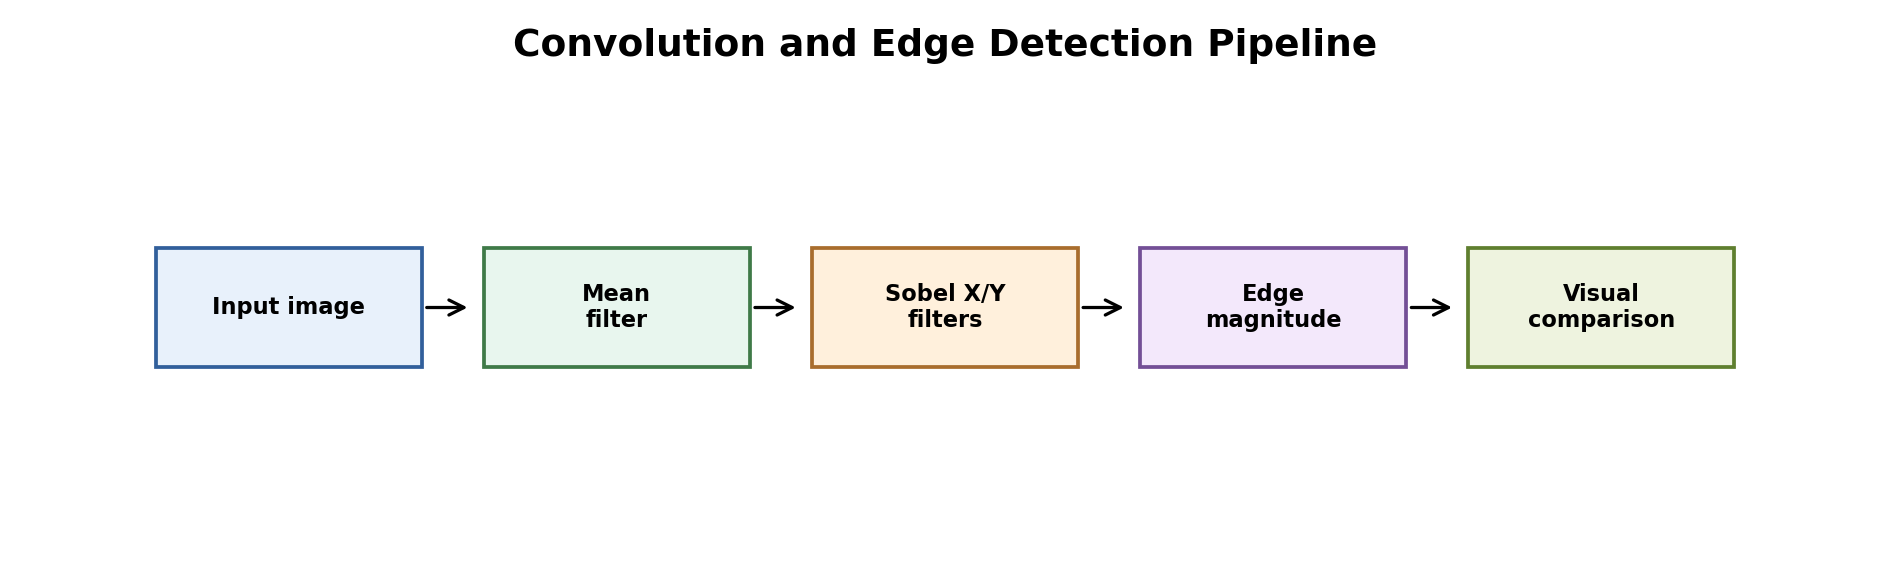
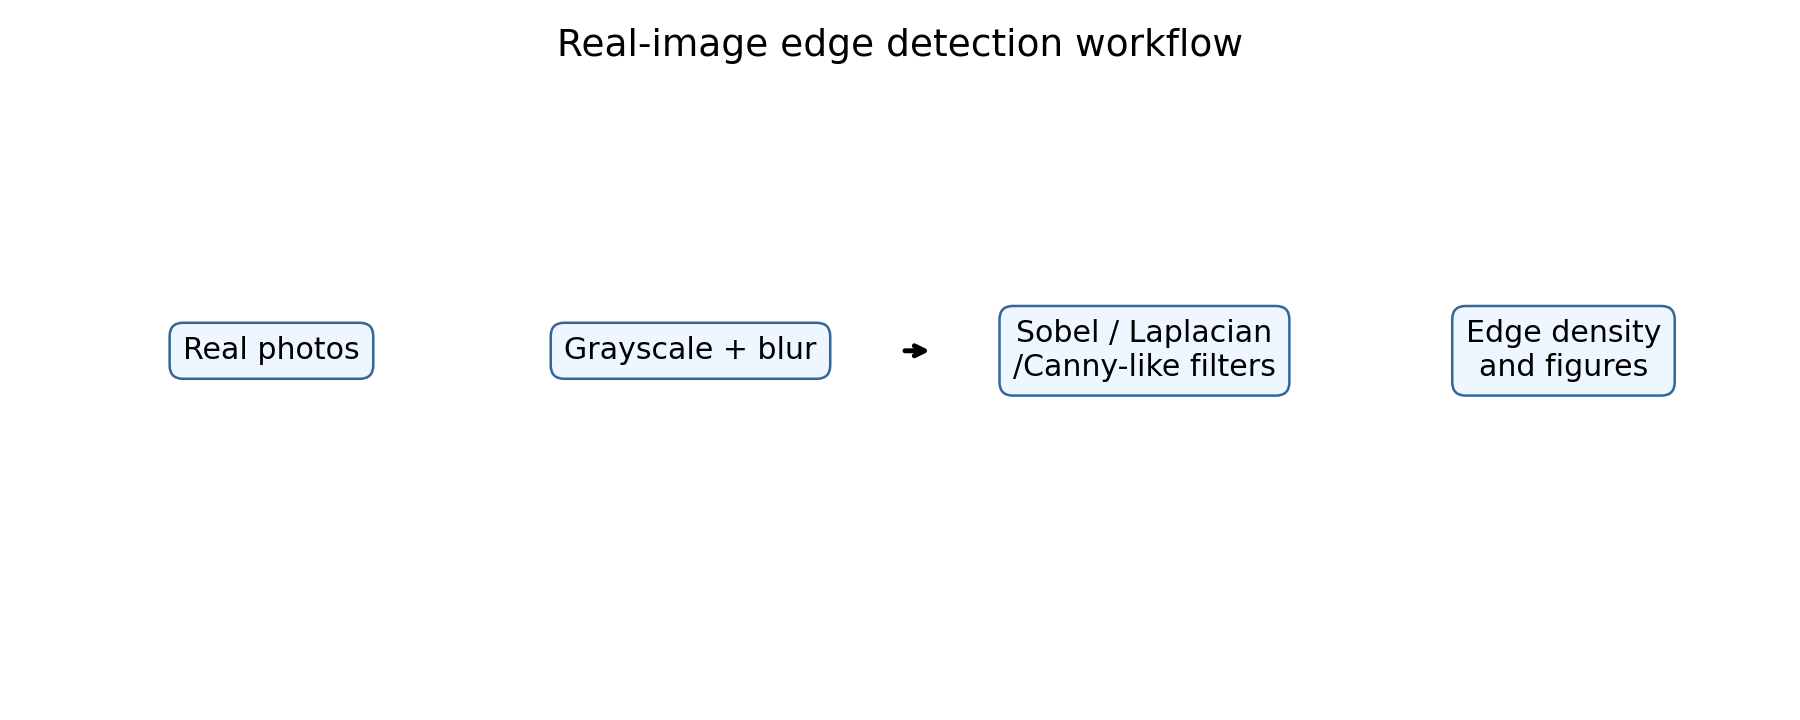
Use real images for edge detection

diff --git a/1_real_image_edge_detection.py b/1_real_image_edge_detection.py
@@ -1,0 +1,195 @@
+from pathlib import Path
+
+import matplotlib
+
+matplotlib.use("Agg")
+import matplotlib.pyplot as plt
+import numpy as np
+import pandas as pd
+from sklearn.datasets import load_sample_images
+
+
+ROOT = Path(__file__).resolve().parent
+RESULTS = ROOT / "results"
+ASSETS = ROOT / "assets"
+
+
+def rgb_to_gray(image: np.ndarray) -> np.ndarray:
+    image = image.astype(np.float32) / 255.0
+    return 0.299 * image[:, :, 0] + 0.587 * image[:, :, 1] + 0.114 * image[:, :, 2]
+
+
+def conv2d(image: np.ndarray, kernel: np.ndarray) -> np.ndarray:
+    kh, kw = kernel.shape
+    pad_h, pad_w = kh // 2, kw // 2
+    padded = np.pad(image, ((pad_h, pad_h), (pad_w, pad_w)), mode="reflect")
+    output = np.zeros_like(image, dtype=np.float32)
+    for row in range(image.shape[0]):
+        for col in range(image.shape[1]):
+            output[row, col] = np.sum(padded[row : row + kh, col : col + kw] * kernel)
+    return output
+
+
+def normalize(image: np.ndarray) -> np.ndarray:
+    lo = float(image.min())
+    hi = float(image.max())
+    return (image - lo) / (hi - lo + 1e-8)
+
+
+def non_maximum_suppression(magnitude: np.ndarray, angle: np.ndarray) -> np.ndarray:
+    angle = (np.rad2deg(angle) + 180) % 180
+    out = np.zeros_like(magnitude)
+    rows, cols = magnitude.shape
+    for row in range(1, rows - 1):
+        for col in range(1, cols - 1):
+            direction = angle[row, col]
+            if (0 <= direction < 22.5) or (157.5 <= direction < 180):
+                q, r = magnitude[row, col + 1], magnitude[row, col - 1]
+            elif 22.5 <= direction < 67.5:
+                q, r = magnitude[row + 1, col - 1], magnitude[row - 1, col + 1]
+            elif 67.5 <= direction < 112.5:
+                q, r = magnitude[row + 1, col], magnitude[row - 1, col]
+            else:
+                q, r = magnitude[row - 1, col - 1], magnitude[row + 1, col + 1]
+            if magnitude[row, col] >= q and magnitude[row, col] >= r:
+                out[row, col] = magnitude[row, col]
+    return out
+
+
+def connected_hysteresis(strong: np.ndarray, weak: np.ndarray) -> np.ndarray:
+    edges = strong.copy()
+    changed = True
+    while changed:
+        changed = False
+        grown = edges.copy()
+        rows, cols = edges.shape
+        for row in range(1, rows - 1):
+            for col in range(1, cols - 1):
+                if weak[row, col] and not edges[row, col] and edges[row - 1 : row + 2, col - 1 : col + 2].any():
+                    grown[row, col] = True
+                    changed = True
+        edges = grown
+    return edges.astype(np.float32)
+
+
+def canny_like_edges(gray: np.ndarray) -> np.ndarray:
+    gaussian = np.array(
+        [
+            [1, 4, 6, 4, 1],
+            [4, 16, 24, 16, 4],
+            [6, 24, 36, 24, 6],
+            [4, 16, 24, 16, 4],
+            [1, 4, 6, 4, 1],
+        ],
+        dtype=np.float32,
+    )
+    gaussian = gaussian / gaussian.sum()
+    smoothed = conv2d(gray, gaussian)
+    sobel_x = np.array([[-1, 0, 1], [-2, 0, 2], [-1, 0, 1]], dtype=np.float32)
+    sobel_y = sobel_x.T
+    gx = conv2d(smoothed, sobel_x)
+    gy = conv2d(smoothed, sobel_y)
+    magnitude = normalize(np.sqrt(gx**2 + gy**2))
+    suppressed = non_maximum_suppression(magnitude, np.arctan2(gy, gx))
+    strong = suppressed >= np.quantile(suppressed, 0.94)
+    weak = suppressed >= np.quantile(suppressed, 0.86)
+    return connected_hysteresis(strong, weak)
+
+
+def analyze_image(name: str, image: np.ndarray) -> dict[str, float | str]:
+    gray = rgb_to_gray(image)
+    blur = np.ones((3, 3), dtype=np.float32) / 9.0
+    sobel_x = np.array([[-1, 0, 1], [-2, 0, 2], [-1, 0, 1]], dtype=np.float32)
+    sobel_y = sobel_x.T
+    laplacian_kernel = np.array([[0, 1, 0], [1, -4, 1], [0, 1, 0]], dtype=np.float32)
+
+    smoothed = conv2d(gray, blur)
+    gx = conv2d(smoothed, sobel_x)
+    gy = conv2d(smoothed, sobel_y)
+    sobel = normalize(np.sqrt(gx**2 + gy**2))
+    laplacian = normalize(np.abs(conv2d(smoothed, laplacian_kernel)))
+    canny = canny_like_edges(gray)
+
+    edge_threshold = 0.25
+    row = {
+        "image": name,
+        "height": image.shape[0],
+        "width": image.shape[1],
+        "mean_gray_intensity": round(float(gray.mean()), 4),
+        "sobel_edge_density": round(float((sobel > edge_threshold).mean()), 4),
+        "laplacian_edge_density": round(float((laplacian > edge_threshold).mean()), 4),
+        "canny_like_edge_density": round(float(canny.mean()), 4),
+        "sobel_mean_strength": round(float(sobel.mean()), 4),
+        "laplacian_mean_strength": round(float(laplacian.mean()), 4),
+    }
+
+    fig, axes = plt.subplots(1, 5, figsize=(14, 3.5))
+    panels = [
+        ("RGB image", image),
+        ("Grayscale", gray),
+        ("Sobel magnitude", sobel),
+        ("Laplacian", laplacian),
+        ("Canny-like edges", canny),
+    ]
+    for ax, (title, panel) in zip(axes, panels):
+        ax.imshow(panel if panel.ndim == 3 else panel, cmap=None if panel.ndim == 3 else "gray")
+        ax.set_title(title, fontsize=9)
+        ax.axis("off")
+    fig.suptitle(f"Classical edge detection on real image: {name}", y=1.02)
+    fig.tight_layout()
+    fig.savefig(RESULTS / f"{name}_edge_pipeline.png", dpi=180)
+    plt.close(fig)
+    return row
+
+
+def plot_summary(summary: pd.DataFrame) -> None:
+    plt.figure(figsize=(8, 4))
+    x = np.arange(len(summary))
+    width = 0.25
+    plt.bar(x - width, summary["sobel_edge_density"], width, label="Sobel")
+    plt.bar(x, summary["laplacian_edge_density"], width, label="Laplacian")
+    plt.bar(x + width, summary["canny_like_edge_density"], width, label="Canny-like")
+    plt.xticks(x, summary["image"])
+    plt.ylabel("Edge pixel share")
+    plt.title("Edge Density by Real Image and Method")
+    plt.legend()
+    plt.tight_layout()
+    plt.savefig(RESULTS / "edge_density_comparison.png", dpi=180)
+    plt.close()
+
+
+def plot_readme_overview() -> None:
+    fig, ax = plt.subplots(figsize=(10, 4))
+    ax.axis("off")
+    boxes = [
+        ("Real photos", 0.14),
+        ("Grayscale + blur", 0.38),
+        ("Sobel / Laplacian\n/Canny-like filters", 0.64),
+        ("Edge density\nand figures", 0.88),
+    ]
+    for text, xpos in boxes:
+        ax.text(xpos, 0.55, text, ha="center", va="center", fontsize=12, bbox=dict(boxstyle="round,pad=0.45", facecolor="#eef6ff", edgecolor="#336699"))
+    for start, end in zip(boxes[:-1], boxes[1:]):
+        ax.annotate("", xy=(end[1] - 0.12, 0.55), xytext=(start[1] + 0.12, 0.55), arrowprops=dict(arrowstyle="->", lw=2))
+    ax.set_title("Real-image edge detection workflow", fontsize=15)
+    fig.tight_layout()
+    fig.savefig(ASSETS / "readme_project_overview.png", dpi=180)
+    plt.close(fig)
+
+
+def main() -> None:
+    RESULTS.mkdir(exist_ok=True)
+    ASSETS.mkdir(exist_ok=True)
+    dataset = load_sample_images()
+    rows = []
+    for name, image in zip(dataset.filenames, dataset.images):
+        rows.append(analyze_image(Path(name).stem, image))
+    summary = pd.DataFrame(rows)
+    summary.to_csv(RESULTS / "real_image_edge_summary.csv", index=False)
+    plot_summary(summary)
+    plot_readme_overview()
+    print(summary.to_string(index=False))
+
+
+if __name__ == "__main__":
+    main()

diff --git a/README.md b/README.md
@@ -1,59 +1,60 @@
-# Convolution Filtering and Edge Detection
+# Real-Image Edge Detection with Classical Filters
 
 ![Project overview](assets/readme_project_overview.png)
 
-Figure: image-processing pipeline from raw pixels to detected edges.
-
+Figure: real photos are converted to grayscale, filtered with classical edge operators, and compared with edge-density metrics.
 
 ## Motivation
 
-Convolution is one of the core operations in computer vision. Before using large vision models, it is important to understand how simple filters detect structure in an image.
+Classical edge detection is still important because it explains the basic visual idea behind many computer vision systems: boundaries often appear where pixel intensity changes sharply.
 
 ## Project Goal
 
-We implemented convolution from scratch and used it for smoothing and edge detection.
+We applied convolution-based edge detection to real images and compared Sobel, Laplacian, and Canny-like edge maps.
 
-## Dataset / Problem
+## Dataset
 
-The input is a controlled grayscale image containing simple shapes. This makes the effect of each filter easy to see.
+We used the real sample photos included with scikit-learn:
+
+- `china`: outdoor scene with buildings, sky, and objects
+- `flower`: close-up flower image with smoother background
+
+Both images are RGB photos with size 427x640.
 
 ## Tools
 
-Python, NumPy, pandas, and matplotlib.
+Python, NumPy, pandas, matplotlib, and scikit-learn.
 
 ## Method
 
-We applied a 3x3 mean filter for smoothing. Then we applied Sobel X and Sobel Y filters and combined them into an edge-magnitude image.
-
-## Hyperparameters
-
-- Image size: 96x96
-- Blur kernel: 3x3 mean filter
-- Edge filters: Sobel X and Sobel Y
+We implemented convolution from scratch. The pipeline converts RGB images to grayscale, smooths the image, applies Sobel and Laplacian filters, and builds a Canny-like edge map using non-maximum suppression and hysteresis.
 
 ## Results
 
-The result summary reported:
+| Image | Sobel Edge Density | Laplacian Edge Density | Canny-like Edge Density |
+|---|---:|---:|---:|
+| China | 0.1004 | 0.0318 | 0.0871 |
+| Flower | 0.0403 | 0.0235 | 0.0688 |
 
-| Metric | Value |
-|---|---:|
-| Mean image intensity | 0.2345 |
-| Mean edge magnitude | 0.1533 |
-| Maximum edge magnitude | 2.3594 |
+![Edge density comparison](results/edge_density_comparison.png)
 
-The result folder contains the original image, smoothed image, edge image, combined pipeline figure, and a CSV summary.
+![China edge pipeline](results/china_edge_pipeline.png)
+
+![Flower edge pipeline](results/flower_edge_pipeline.png)
 
 ## Interpretation
 
-The edge magnitude is highest where the image intensity changes sharply, especially around the rectangle and circle boundaries. Smoothing reduces small local changes before edge detection.
+The China image has higher Sobel edge density because it contains more scene boundaries, object outlines, and texture changes. The flower image is smoother, so fewer pixels become strong Sobel edges.
+
+The Canny-like method keeps thinner connected edges after suppression and hysteresis. This makes it more selective than raw Sobel magnitude.
 
 ## Conclusion
 
-This project shows the basic idea behind many computer vision pipelines: filters transform raw pixels into more useful visual signals.
+This project now demonstrates classical filtering on real images. The main lesson is that edge detectors are simple, interpretable tools for measuring local image structure, but their output depends strongly on image texture, threshold choice, and smoothing.
 
 ## How To Run
 
 ```bash
 pip install -r requirements.txt
-python 1_convolution_edge_detection.py
+python 1_real_image_edge_detection.py
 ```

diff --git a/report.md b/report.md
@@ -1,29 +1,25 @@
-# Report: Convolution Filtering and Edge Detection
+# One-Page Report: Real-Image Edge Detection
 
 ## Motivation
 
-We implemented convolution to understand how classical computer vision filters process images.
+We wanted to study edge detection on real images instead of simple artificial shapes. This makes the filtering behavior more realistic because real photos contain texture, lighting variation, and clutter.
 
-## Dataset / Problem
+## Dataset
 
-The experiment used a controlled grayscale image with simple geometric shapes.
+The experiment uses two real scikit-learn sample photos: `china` and `flower`. Each image is an RGB photo with size 427x640.
 
 ## Method
 
-We applied mean filtering for smoothing and Sobel filters for edge detection.
-
-## Hyperparameters
-
-The image size was 96x96. The blur kernel was 3x3, and the edge filters were Sobel X and Sobel Y.
+We implemented 2D convolution from scratch. Each image was converted to grayscale, smoothed, and processed with Sobel, Laplacian, and Canny-like edge detection.
 
 ## Results
 
-The mean edge magnitude was 0.1533, and the maximum edge magnitude was 2.3594. Figures show the original image, smoothed image, and detected edges.
+The China image had Sobel edge density 0.1004 and Canny-like edge density 0.0871. The flower image had Sobel edge density 0.0403 and Canny-like edge density 0.0688.
 
 ## Interpretation
 
-Edges appear where pixel intensity changes sharply. This confirms that Sobel filters capture object boundaries.
+The China image contains more strong boundaries and scene structure, so Sobel detects more edge pixels. The Canny-like method is more selective because it suppresses weak non-maximum responses and keeps connected edge chains.
 
 ## Conclusion
 
-Convolution is a simple but powerful operation. Understanding it makes modern CNNs easier to understand.
+Classical filters remain useful for understanding visual structure. Real images show why thresholding, smoothing, and edge connectivity matter.
